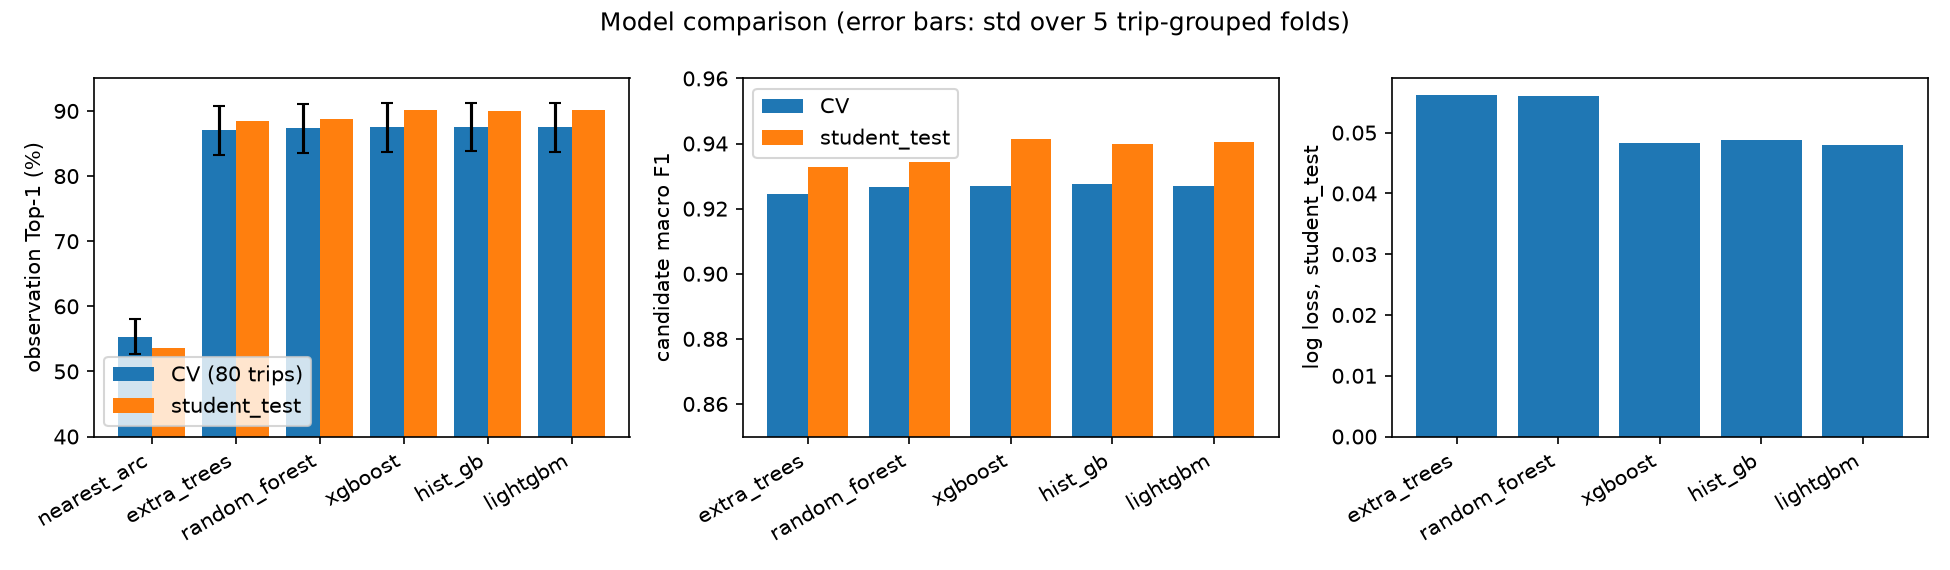
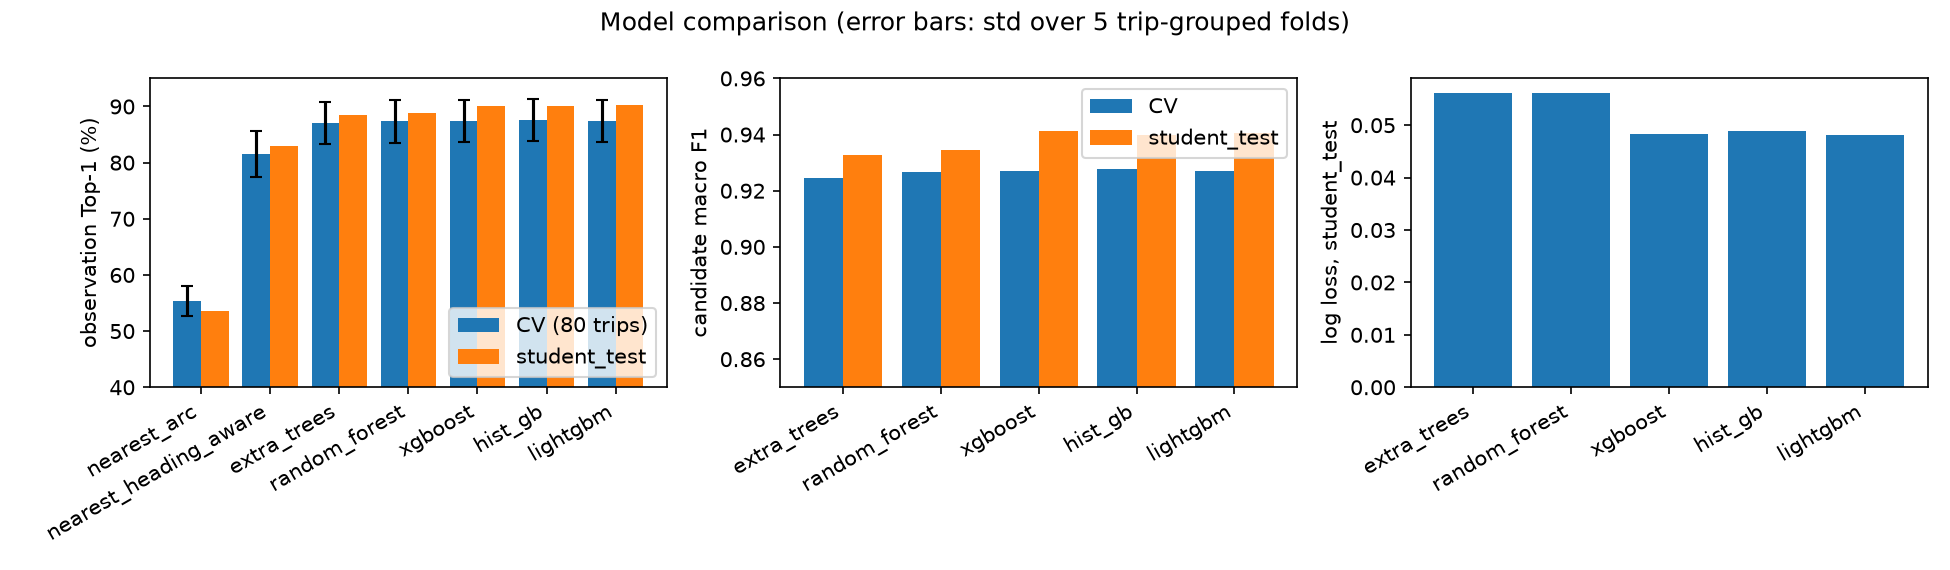
Re-score all models with official metrics; add README and corrected pipeline results
- Re-run all five models, the tuned LightGBM and both non-learned baselines with
  the official route continuity, candidate accuracy, confusion counts and
  sequence-level scores (results reproduce the first comparison exactly)
- Add per-model confusion matrices, consolidated metrics_table.csv, rerun script
- Restore the full 10-trip results/pipeline_student_test_default.csv (an earlier
  single-trip run had overwritten it before the previous commit)
- Add root README; note the strong heading-aware baseline (83.0 % test Top-1)

diff --git a/scripts/train_heavy.py b/scripts/train_heavy.py
@@ -16,9 +16,13 @@ import pandas as pd
 
 from pathsnap.cand_metrics import (candidate_metrics, distinct_arc_continuity, observation_metrics,
                                  route_continuity, top1_predictions)
+from sklearn.metrics import accuracy_score, confusion_matrix
+
 from pathsnap.data import load_folds, load_part, stride_subsample, trip_arcs, xy
+from pathsnap.decoder.metrics import route_sequence_metrics
+from pathsnap.io import load_trip
 from pathsnap.models.registry import MODEL_SPECS, SEED, make_model, proba
-from pathsnap.paths import RESULTS_DIR
+from pathsnap.paths import RESULTS_DIR, trip_dir
 
 
 def evaluate(df: pd.DataFrame, obs: pd.DataFrame, score: np.ndarray, part: str) -> dict:
@@ -35,6 +39,21 @@ def evaluate(df: pd.DataFrame, obs: pd.DataFrame, score: np.ndarray, part: str) 
     m["route_continuity"] = float(np.mean(conts))              # official definition
     m["route_continuity_distinct"] = float(np.mean(dconts))    # stricter, not official
     m["route_breaks"] = breaks
+    y, yhat = df["label"].to_numpy(), (np.clip(score, 1e-7, 1 - 1e-7) >= 0.5).astype(int)
+    m["accuracy"] = float(accuracy_score(y, yhat))
+    tn, fp, fn, tp = confusion_matrix(y, yhat, labels=[0, 1]).ravel()
+    m.update(tn=int(tn), fp=int(fp), fn=int(fn), tp=int(tp))
+    if part == "student_test":      # sequence-level score vs the reference route (dev data only, after prediction)
+        seqs = []
+        for tid, g in pred.groupby("trip_id"):
+            arcs_seq = g.sort_values("obs_idx")["arc_id"].to_numpy()
+            collapsed = arcs_seq[np.r_[True, arcs_seq[1:] != arcs_seq[:-1]]].tolist()
+            ref_route = load_trip(trip_dir(part, tid), with_labels=True).route.tolist()
+            q = route_sequence_metrics(collapsed, ref_route)
+            q["edit_norm"] = q["arc_sequence_edit_distance"] / max(1, len(ref_route))
+            seqs.append(q)
+        for k in ("route_arc_set_f1", "route_arc_set_jaccard", "edit_norm"):
+            m["seq_" + k] = float(np.mean([q[k] for q in seqs]))
     return m
 
 
@@ -87,6 +106,9 @@ def run(name: str, stride: int, params: dict | None = None, tag: str = "") -> di
                test_top1=te["top1"], test_logloss=te["logloss"], test_route_continuity=te["route_continuity"],
                test_route_continuity_distinct=te["route_continuity_distinct"],
                test_route_breaks=te["route_breaks"], test_candidate_miss_rate=te["candidate_miss_rate"],
+               test_accuracy=te["accuracy"], test_tn=te["tn"], test_fp=te["fp"], test_fn=te["fn"], test_tp=te["tp"],
+               test_seq_arc_f1=te["seq_route_arc_set_f1"], test_seq_arc_jaccard=te["seq_route_arc_set_jaccard"],
+               test_seq_edit_dist_norm=te["seq_edit_norm"],
                train_time_s=train_s, infer_time_s_per_trip=infer_s / test_o.trip_id.nunique(),
                timestamp=datetime.now().isoformat(timespec="seconds"))
     append_row(row)
@@ -100,7 +122,13 @@ if __name__ == "__main__":
     ap = argparse.ArgumentParser()
     ap.add_argument("--models", nargs="+", default=list(MODEL_SPECS))
     ap.add_argument("--stride", type=int, default=3, help="train on every n-th GPS point per trip")
+    ap.add_argument("--params-from", help="tuning_summary json: train with its best_params, tagged _tuned")
     ap.add_argument("--n-estimators", type=int, default=None, help="override tree count (ET/RF time-box)")
     args = ap.parse_args()
-    for n in args.models:
-        run(n, args.stride, {"n_estimators": args.n_estimators} if args.n_estimators else None)
+    if args.params_from:
+        best = json.loads(open(args.params_from, encoding="utf-8").read())["best_params"]
+        for n in args.models:
+            run(n, args.stride, best, "_tuned")
+    else:
+        for n in args.models:
+            run(n, args.stride, {"n_estimators": args.n_estimators} if args.n_estimators else None)

diff --git a/scripts/analysis_plots.py b/scripts/analysis_plots.py
@@ -4,6 +4,8 @@
 * model_comparison.png       : CV Top-1, student_test Top-1/macro-F1, log loss for every model
 * calibration_lightgbm.png   : reliability diagram of the exported model on student_test
 * confusion_lightgbm.png     : candidate-level confusion matrix of the exported model on student_test
+* confusion_all_models.png    : the same confusion matrix for every model (from results/experiments.csv)
+* metrics_table.csv          : the consolidated comparison table (official metrics) for the report
 * label_quality.csv          : label-alignment quality summary (from results/label_stats.csv)
 """
 from __future__ import annotations
@@ -63,7 +65,7 @@ def label_quality() -> None:
 def model_comparison() -> None:
     d = pd.read_csv(RESULTS_DIR / "experiments.csv").drop_duplicates("model", keep="last")
     d = d[d.model != "lightgbm_tuned"].set_index("model")
-    order = ["nearest_arc", "extra_trees", "random_forest", "xgboost", "hist_gb", "lightgbm"]
+    order = ["nearest_arc", "nearest_heading_aware", "extra_trees", "random_forest", "xgboost", "hist_gb", "lightgbm"]
     d = d.loc[[m for m in order if m in d.index]]
     fig, axes = plt.subplots(1, 3, figsize=(13, 3.8))
     x = np.arange(len(d))
@@ -129,8 +131,46 @@ def calibration_and_confusion() -> None:
     print(cm)
 
 
+def confusion_all_models() -> None:
+    d = pd.read_csv(RESULTS_DIR / "experiments.csv")
+    d = d.dropna(subset=["test_tn"]).drop_duplicates("model", keep="last").set_index("model")
+    order = [m for m in ["random_forest", "extra_trees", "xgboost", "hist_gb", "lightgbm", "lightgbm_tuned"] if m in d.index]
+    fig, axes = plt.subplots(1, len(order), figsize=(3.1 * len(order), 3.2))
+    for ax, name in zip(np.atleast_1d(axes), order):
+        r = d.loc[name]
+        cm = np.array([[r.test_tn, r.test_fp], [r.test_fn, r.test_tp]], dtype=float)
+        ax.imshow(cm / cm.sum(axis=1, keepdims=True), cmap="Blues", vmin=0, vmax=1)
+        for i in range(2):
+            for j in range(2):
+                ax.text(j, i, f"{int(cm[i, j]):,}", ha="center", va="center", fontsize=8,
+                        color="white" if cm[i, j] / cm[i].sum() > 0.5 else "black")
+        ax.set_xticks([0, 1], ["pred 0", "pred 1"], fontsize=8)
+        ax.set_yticks([0, 1], ["true 0", "true 1"], fontsize=8)
+        ax.set_title(name, fontsize=9)
+    fig.suptitle("Candidate-level confusion matrices, student_test (threshold 0.5; colour = row-normalised)", fontsize=9)
+    fig.tight_layout()
+    fig.savefig(PLOTS / "confusion_all_models.png", dpi=150)
+    plt.close(fig)
+
+
+def metrics_table() -> None:
+    d = pd.read_csv(RESULTS_DIR / "experiments.csv").dropna(subset=["test_tn"]).drop_duplicates("model", keep="last")
+    cols = {"model": "model", "family": "family", "cv_macro_f1_mean": "cv_macro_f1", "cv_top1_mean": "cv_top1",
+            "cv_route_continuity_mean": "cv_route_continuity", "test_macro_f1": "test_macro_f1",
+            "test_top1": "test_top1", "test_accuracy": "test_candidate_accuracy", "test_precision": "test_precision",
+            "test_recall": "test_recall", "test_logloss": "test_logloss", "test_route_continuity": "test_route_continuity",
+            "test_candidate_miss_rate": "test_candidate_miss_rate", "test_seq_arc_f1": "test_seq_arc_f1",
+            "test_seq_arc_jaccard": "test_seq_arc_jaccard", "test_seq_edit_dist_norm": "test_seq_edit_dist_norm",
+            "train_time_s": "train_time_s", "infer_time_s_per_trip": "infer_time_s_per_trip"}
+    out = d[[c for c in cols if c in d.columns]].rename(columns=cols).round(4)
+    out.to_csv(RESULTS_DIR / "metrics_table.csv", index=False)
+    print(out.to_string(index=False))
+
+
 if __name__ == "__main__":
     candidate_sweep()
     label_quality()
     model_comparison()
     calibration_and_confusion()
+    confusion_all_models()
+    metrics_table()

diff --git a/README.md b/README.md
@@ -1,0 +1,104 @@
+# PathSnap: map matching and route reconstruction
+
+PES University UE24CS352A ML Hackathon. Noisy GPS points are matched to a trip's own road network:
+a LightGBM classifier scores every candidate road arc for every GPS point, and an HMM/Viterbi
+decoder turns those scores into one connected route.
+
+## Status (update as work lands)
+
+| Part | Status |
+| --- | --- |
+| Candidate generation, labels, 27 features | done (`src/pathsnap/`) |
+| Model comparison (5 models + baseline), Bayesian tuning, export | done (`scripts/`, `results/`, `artifacts/`) |
+| HMM / Viterbi decoder | implemented, settings **not yet tuned** (`src/pathsnap/decoder/`) |
+| End-to-end `predict(trip_dir)` | done (`src/pathsnap/pipeline.py`) |
+| FastAPI backend, evaluator UI, Folium maps, EDA | **not yet in this repo** |
+| Technical report (PDF) | **not yet written** |
+
+## Repository layout
+
+```
+src/pathsnap/        library: io, geo (graph + index), labels, candidates, features, clf (inference),
+                     models/registry, tuning, oof, pipeline, decoder/ (HMM, graph, stitching, metrics)
+scripts/             runnable steps (data tables, folds, training, tuning, ablation, plots, evaluation)
+configs/             cv_folds.json (5 trip-grouped folds, seed 42)
+artifacts/           exported model: model.joblib, feature_order.json, model_card.json
+results/             experiment logs and result tables (CSV/JSON), plots/
+tests/               pytest suite
+docs/                plan/PRD, notes per component (docs/notes/), decoder notes
+Student folder/      provided dataset: train (80 trips) and student_test (10 trips)
+```
+
+## Install
+
+Python 3.12. From the repository root:
+
+```
+pip install -r requirements.txt
+pip install -e .
+```
+
+The dataset is expected in `Student folder/` (train/ and student_test/). Set `PATHSNAP_DATA` to use another location.
+The reserved evaluation trips are never stored in this repository; the server reads them from a folder outside it.
+
+## Reproduce the experiments
+
+```
+python scripts/make_candidates.py --jobs 6      # candidate + feature tables and labels for the 90 development trips (~30 s)
+python scripts/make_folds.py                    # configs/cv_folds.json
+python scripts/train_heavy.py --models lightgbm hist_gb xgboost                         # grouped CV + student_test
+python scripts/train_heavy.py --models extra_trees random_forest --stride 6 --n-estimators 50
+python scripts/baseline_nearest.py              # non-learned baseline (run inside scripts/)
+python scripts/tune.py --model lightgbm         # Bayesian search (Optuna TPE), refit, tuned vs untuned, export
+python scripts/ablation.py                      # feature-group ablation
+python scripts/analysis_plots.py                # plots and tables for the report
+sh scripts/rerun_all_models.sh                  # all of the model comparison in one go
+```
+
+Every model run appends a row to `results/experiments.csv` (configuration, seed, timings, metrics).
+Details of each stage: `docs/notes/README_A_pipeline.md`, `docs/notes/candidates_labels_features.md`,
+`docs/notes/models_and_tuning.md`.
+
+## Predict a route
+
+```python
+from pathsnap.pipeline import predict
+result = predict("Student folder/student_test/00000052")
+result["hmm_arc_ids"], result["route_arc_ids"], result["route_polyline"], result["route_breaks"]
+```
+
+`predict` reads only `.track`, `.nodes` and `.arcs`. The reference route (`.route`) is opened only by the
+scoring/evaluation code after prediction, never by the model or decoder.
+
+Evaluate classifier-only vs classifier + HMM on development trips (labels used after prediction):
+
+```
+python scripts/eval_pipeline.py                         # student_test, default decoder settings
+python scripts/make_oof_scores.py                       # out-of-fold scores for tuning the decoder on training trips
+python scripts/eval_pipeline.py --part train --oof --beta 30 --tag b30
+```
+
+See `docs/notes/integration_a_b.md` for how the decoder is tuned and why out-of-fold scores are used for that.
+
+## Tests
+
+```
+python -m pytest tests
+```
+
+## Rules the code follows
+
+- Model fitting and cross-validation use the 80 training trips only, in trip-grouped folds; `student_test` is a development comparison set.
+- The evaluator partition is never used to choose features, models, hyper-parameters, thresholds or decoder settings.
+- Ground-truth labels stay server-side and are never exposed to the model or the UI.
+- Every number in the report must come from a script and a file in this repository.
+
+## Deployment (to be completed with the API and UI)
+
+Laptop 1 runs the API (classifier, decoder, road data, server-side scoring); Laptop 2 runs the UI.
+Run instructions and the API endpoint list will be added here when the backend and UI are committed.
+
+## AI assistance
+
+AI tools were used to help write and review code and notes. Reported results come from the committed scripts and
+their output files. Team members are responsible for understanding and explaining all submitted work.

diff --git a/docs/notes/models_and_tuning.md b/docs/notes/models_and_tuning.md
@@ -9,16 +9,20 @@ Code: `scripts/train_heavy.py`, `scripts/baseline_nearest.py`, `scripts/tune.py`
 
 ## Results (student_test = 10 trips, CV = 5 grouped folds)
 
-| Model | Family | CV Top-1 | test Top-1 | test macro-F1 | test log loss | test continuity (distinct-arc, NOT official) | fit time |
-| --- | --- | --- | --- | --- | --- | --- | --- |
-| HistGradientBoosting | boosting | 87.55 % | 90.07 % | 0.940 | 0.0488 | 82.9 % | 17 s |
-| **LightGBM (selected)** | boosting | 87.48 % | 90.21 % | 0.941 | 0.0480 | 82.7 % | 12 s |
-| XGBoost | boosting | 87.47 % | 90.16 % | 0.941 | 0.0483 | 83.4 % | 18 s |
-| Random Forest (50 trees) | bagging | 87.33 % | 88.81 % | 0.935 | 0.0561 | 83.0 % | 22 s |
-| Extra Trees (50 trees) | randomised trees | 87.03 % | 88.41 % | 0.933 | 0.0561 | 81.8 % | 24 s |
-| Nearest road (no learning) | baseline | 55.36 % | 53.60 % | n/a | n/a | 45.7 % | n/a |
+| Model | Family | CV Top-1 | test Top-1 | test macro-F1 | test log loss | test route continuity (official) | test miss rate | fit time |
+| --- | --- | --- | --- | --- | --- | --- | --- | --- |
+| HistGradientBoosting | boosting | 87.55 % | 90.07 % | 0.940 | 0.0488 | 95.78 % | 0.01 % | 21 s |
+| **LightGBM (selected)** | boosting | 87.48 % | 90.21 % | 0.941 | 0.0480 | 95.58 % | 0.01 % | 12 s |
+| LightGBM, Bayesian-tuned | boosting | 87.46 % | 90.03 % | 0.942 | 0.0481 | 95.88 % | 0.01 % | 11 s |
+| XGBoost | boosting | 87.47 % | 90.16 % | 0.941 | 0.0483 | 95.87 % | 0.01 % | 25 s |
+| Random Forest (50 trees) | bagging | 87.33 % | 88.81 % | 0.935 | 0.0561 | 95.63 % | 0.01 % | 31 s |
+| Extra Trees (50 trees) | randomised trees | 87.03 % | 88.41 % | 0.933 | 0.0561 | 95.31 % | 0.01 % | 25 s |
+| Nearest road + heading rule (no learning) | baseline | 81.52 % | 83.01 % | n/a | n/a | 91.08 % | n/a | n/a |
+| Nearest road (no learning) | baseline | 55.36 % | 53.60 % | n/a | n/a | 80.25 % | n/a | n/a |
 
-**Continuity column caveat.** The continuity figures in this table use the stricter *distinct-arc* variant (repeated arcs collapsed first, then share of consecutive different arcs that connect head-to-tail). The official metric (`pathsnap.decoder.metrics.route_continuity`, the PRD definition) counts all adjacent point pairs and treats a repeated arc as connected, which gives much higher values. Official values for the exported LightGBM classifier and the HMM are in `docs/notes/integration_a_b.md`; the other models were not re-scored under the official definition.
+All rows were re-scored with the same code and reproduce the first comparison exactly. Extra candidate-level metrics (accuracy, precision, recall, confusion counts) and sequence-level scores (arc-set F1, normalised edit distance against the reference route) per model are in `results/metrics_table.csv`; confusion matrices for every model are in `results/plots/confusion_all_models.png`. The simple models (Logistic Regression, Gaussian NB, KNN) were trained by Person C (`scripts/train_simple.py` on their branch) and are not in this table yet.
+
+**Heading baseline is strong.** A simple rule (nearest arc, penalised by heading mismatch) already reaches 83.0 % `student_test` Top-1; the learned classifier adds about 7 points on top of it. The report should present it as the honest reference point and not only the 53.6 % nearest-road baseline.
 
 Fold-to-fold standard deviation of Top-1 is about 3.7 points for every model (folds range from about 82 % to 91 %): some trips are much harder than others.
 

diff --git a/docs/notes/integration_a_b.md b/docs/notes/integration_a_b.md
@@ -6,7 +6,7 @@ Branch `integration/a-b` = `a/ml-pipeline` + `feature/person-b-decoder` + the fi
 1. **Package clash.** Both branches had a top-level package named `pathsnap` (B at the repo root, A under `src/`). B's code now lives in `src/pathsnap/decoder/`; the root-level `pathsnap/` is gone. One `pip install -e .` covers everything. B's benchmark script was pointed at `src/`.
 2. **One coordinate frame.** B's graph is centred on nodes + track, A's features on the track median. Same formula and Earth radius, different origin. `InferenceComponents` now has an optional `projection_factory`; `pathsnap.pipeline` passes A's origin so the classifier's features and the decoder candidates use identical metres. B's graph cache key now includes the projection origin (otherwise a graph built in another frame could be reused).
 3. **Real adapter.** `src/pathsnap/pipeline.py`: `predict(trip_dir)` runs candidates, features, the exported LightGBM and the decoder. It reads only `.track`, `.nodes`, `.arcs`. Candidate rows and scores are kept aligned by row index, so an arc rejected by the decoder's validity checks cannot shift the scores.
-4. **One definition of route continuity.** A's first comparison used a stricter *distinct-arc* variant. `cand_metrics.route_continuity` now implements the official (B's / PRD) definition and is tested for agreement with `pathsnap.decoder.metrics`; the old one is `distinct_arc_continuity`. Stored columns in `results/experiments.csv` were renamed `*_distinct*`; the official columns are blank for runs that were not re-scored. Do not quote the old numbers as "route continuity".
+4. **One definition of route continuity.** A's first comparison used a stricter *distinct-arc* variant. `cand_metrics.route_continuity` now implements the official (B's / PRD) definition and is tested for agreement with `pathsnap.decoder.metrics`; the old one is `distinct_arc_continuity`. Every model was then re-scored with the same code (`scripts/rerun_all_models.sh`): the first-run rows keep their values in `*_distinct*` columns, and the official columns are filled by the re-run rows. Do not quote `*_distinct*` numbers as "route continuity".
 5. **Stitching speed.** `RoadGraph._dijkstra` now stops when the target node is settled (exact; verified against the full search on 180 random node pairs, 0 mismatches, plus a unit test). Slowest dev trip (3,958 points): 11.8 s -> 9.8 s, including the one-off ~2.5 s model load. The rest is the HMM's transition search; fine for the demo, worth re-timing on the largest evaluator trip.
 
 ## Pipeline results on the 10 `student_test` trips (development data, DEFAULT untuned decoder: beta 50 m, gap 120 s)
